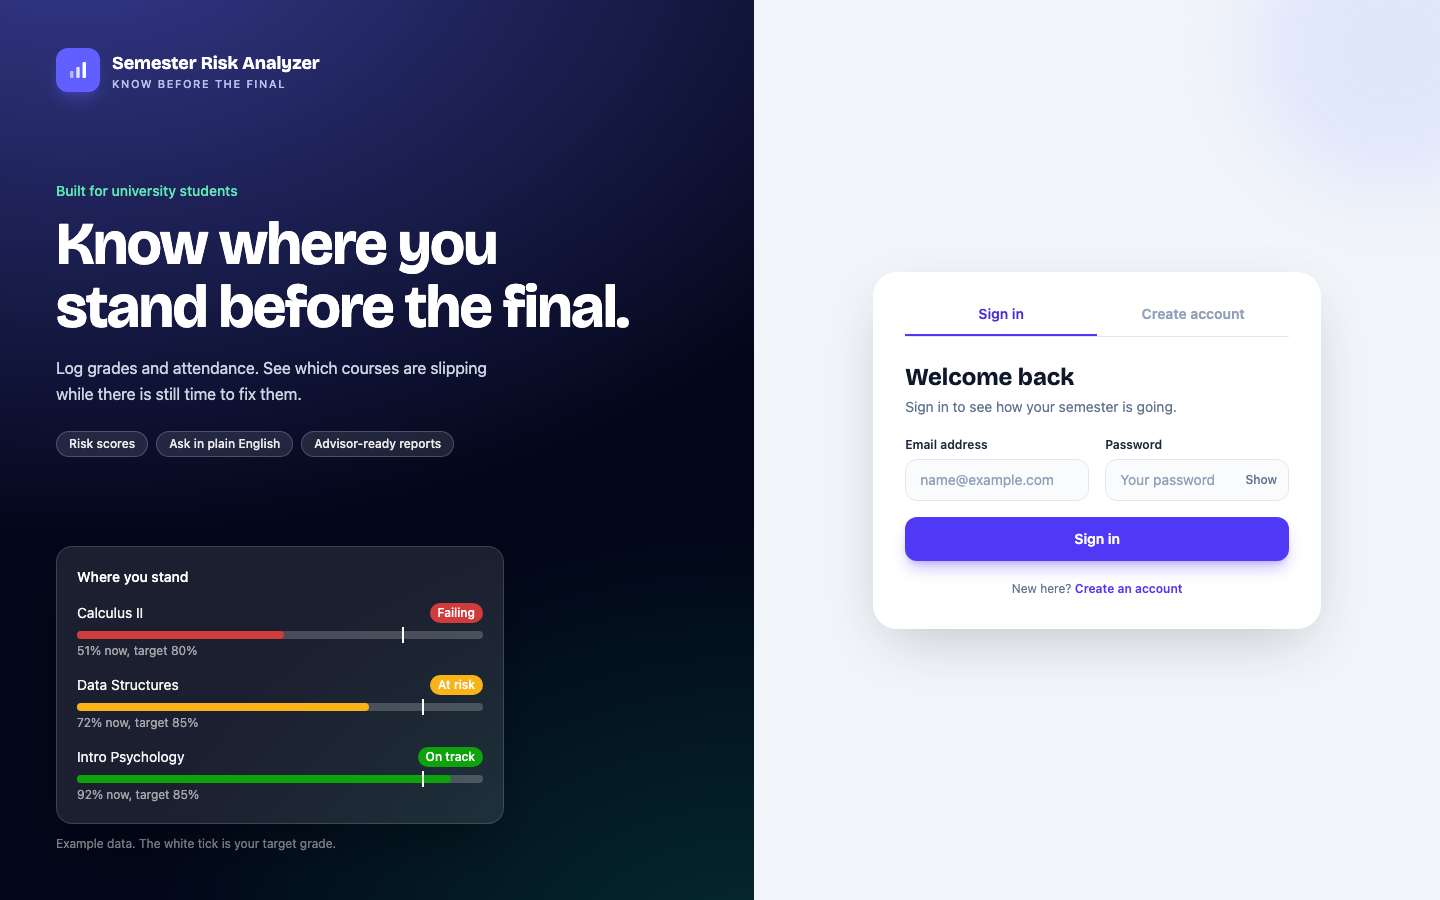
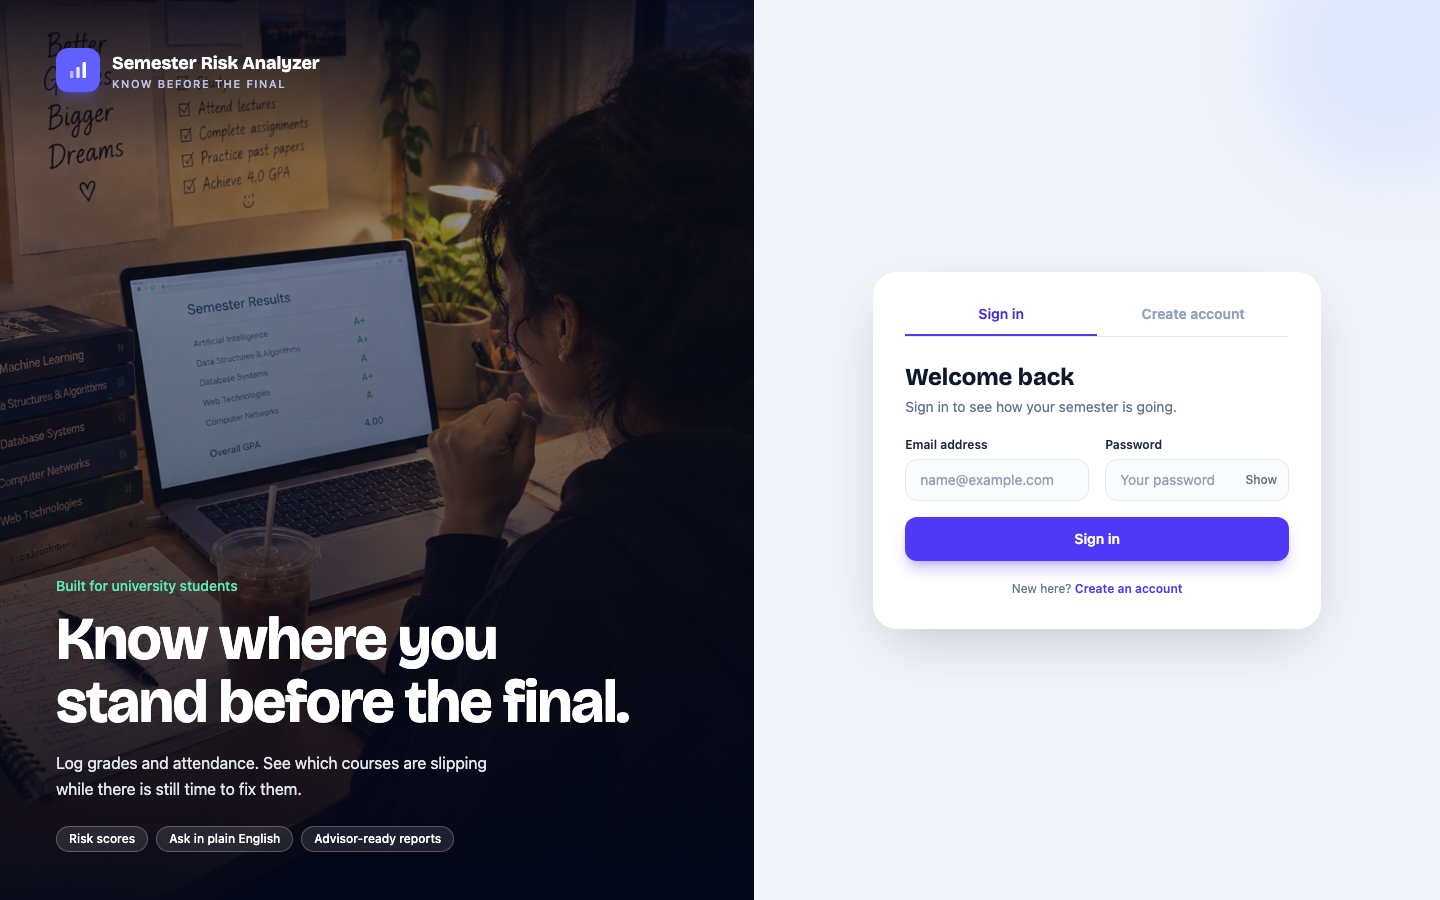
Use a student-at-desk photo as the sign-in hero (full-bleed, gradient for legibility)
- frontend/public/images/login-hero.jpg (307 KB, converted from a 2.2 MB PNG)
- Replaces the example-card hero; crop keeps the 'Semester Results' screen clear of the headline
- README screenshot refreshed

diff --git a/frontend/src/pages/AuthPage.jsx b/frontend/src/pages/AuthPage.jsx
@@ -2,7 +2,6 @@ import { useState } from 'react';
 import { Link, Navigate, useNavigate } from 'react-router-dom';
 import { useAuth } from '../context/AuthContext';
 import BrandMark from '../components/auth/BrandMark';
-import HeroPreview from '../components/auth/HeroPreview';
 
 const FEATURES = ['Risk scores', 'Ask in plain English', 'Advisor-ready reports'];
 
@@ -59,11 +58,21 @@ export default function AuthPage({ mode }) {
 
   return (
     <div className="grid min-h-screen bg-[#f2f5f9] lg:grid-cols-[1.1fr_1fr]">
-      <section className="relative isolate flex flex-col justify-between gap-10 overflow-hidden bg-slate-950 px-6 py-8 sm:px-10 lg:min-h-screen lg:px-14 lg:py-12">
+      <section className="relative isolate flex min-h-[30rem] flex-col justify-between gap-16 overflow-hidden bg-slate-950 px-6 py-8 sm:px-10 lg:min-h-screen lg:px-14 lg:py-12">
+        <img
+          src="/images/login-hero.jpg"
+          alt=""
+          aria-hidden
+          fetchPriority="high"
+          className="absolute inset-0 -z-20 h-full w-full object-cover object-[50%_72%]"
+        />
+        {/* Darkens the photo where the text sits, so the headline stays readable. */}
         <div
           aria-hidden
-          className="absolute inset-0 -z-10 bg-[radial-gradient(60rem_40rem_at_10%_-10%,rgba(99,102,241,0.55),transparent),radial-gradient(40rem_30rem_at_100%_110%,rgba(16,185,129,0.22),transparent)]"
+          className="absolute inset-0 -z-10 bg-gradient-to-t from-slate-950/95 via-slate-950/55 to-slate-950/35"
         />
+        {/* Quiets the busy wall behind the logo. */}
+        <div aria-hidden className="absolute inset-x-0 top-0 -z-10 h-40 bg-gradient-to-b from-slate-950/80 to-transparent" />
         <BrandMark />
 
         <div className="max-w-xl">
@@ -71,21 +80,16 @@ export default function AuthPage({ mode }) {
           <h1 className="font-display text-4xl leading-[1.05] font-bold tracking-tight text-white sm:text-5xl xl:text-6xl">
             Know where you stand before the final.
           </h1>
-          <p className="mt-4 max-w-md text-base leading-relaxed text-slate-300">
+          <p className="mt-4 max-w-md text-base leading-relaxed text-slate-200">
             Log grades and attendance. See which courses are slipping while there is still time to fix them.
           </p>
           <ul className="mt-6 flex flex-wrap gap-2">
             {FEATURES.map((f) => (
-              <li key={f} className="rounded-full border border-white/20 bg-white/10 px-3 py-1 text-xs font-medium text-white/90">
+              <li key={f} className="rounded-full border border-white/25 bg-white/10 px-3 py-1 text-xs font-medium text-white backdrop-blur-sm">
                 {f}
               </li>
             ))}
           </ul>
-        </div>
-
-        {/* Shown only when the window is tall enough to show the card whole. */}
-        <div className="hidden [@media(min-width:1024px)_and_(min-height:840px)]:block">
-          <HeroPreview />
         </div>
       </section>
 
